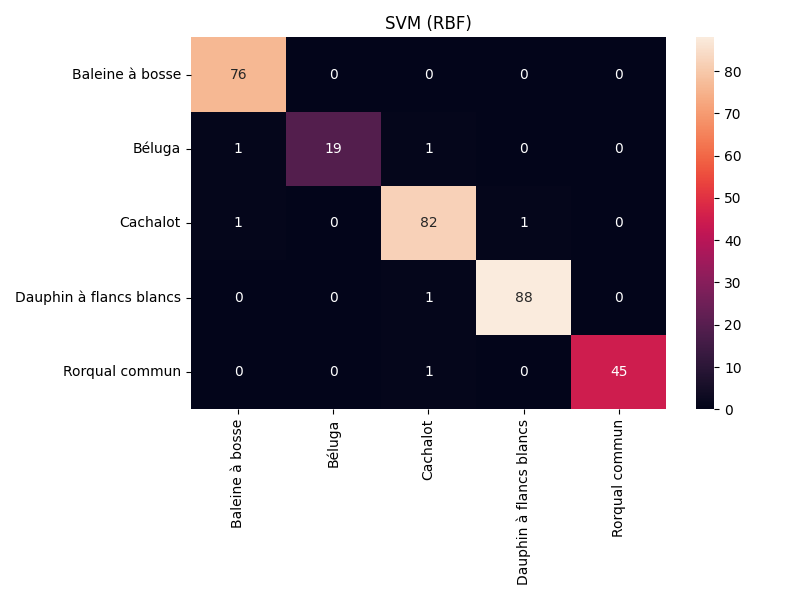
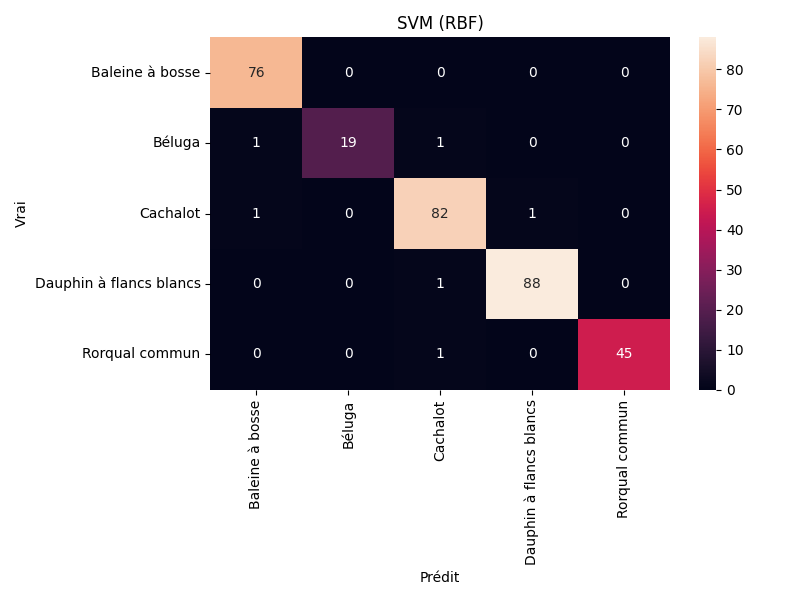
FInal
ggs

diff --git a/part_1.py b/part_1.py
@@ -169,12 +169,22 @@ def compute_metrics(y_true, y_pred):
 
 def plot_confusion(cm, classes, model_name):
     plt.figure(figsize=(8, 6))
-    sns.heatmap(cm, annot=True, fmt="d",
-                xticklabels=classes, yticklabels=classes)
+
+    sns.heatmap(
+        cm,
+        annot=True,
+        fmt="d",
+        xticklabels=classes,
+        yticklabels=classes
+    )
+
     plt.title(model_name)
+    plt.xlabel("Prédit")
+    plt.ylabel("Vrai")
+
     plt.tight_layout()
-    plt.savefig("confusion_matrix_part_1.png")
-    plt.close()
+
+    plt.show()
 
 def plot_importance(clf):
     if not hasattr(clf, "feature_importances_"):

diff --git a/part_2.py b/part_2.py
@@ -185,6 +185,7 @@ def compute_metrics(y_true, y_pred):
 
 def plot_confusion(cm, classes, model_name):
     plt.figure(figsize=(9, 7))
+
     sns.heatmap(
         cm,
         annot=True,
@@ -193,12 +194,14 @@ def plot_confusion(cm, classes, model_name):
         yticklabels=classes,
         cmap="Blues",
     )
+
     plt.title(f"Matrice de confusion – {model_name}")
     plt.ylabel("Vrai label")
     plt.xlabel("Prédit")
+
     plt.tight_layout()
-    plt.savefig("confusion_matrix_part2.png", dpi=150)
-    plt.close()
+
+    plt.show()
 
 
 def plot_importance(clf):

diff --git a/README.md b/README.md
@@ -37,5 +37,6 @@ python3 part_2_Maksim.py "/home/toko/Documents/GitHub/ia_hack_2026/data/part_2/t
 ### Cas Web
 L'interface web utilise les deux parties pour faire un affichage complet des deux parties dans une belle page web
 ```
-python3 web.py
+streamlit run web.py
+
 ```
